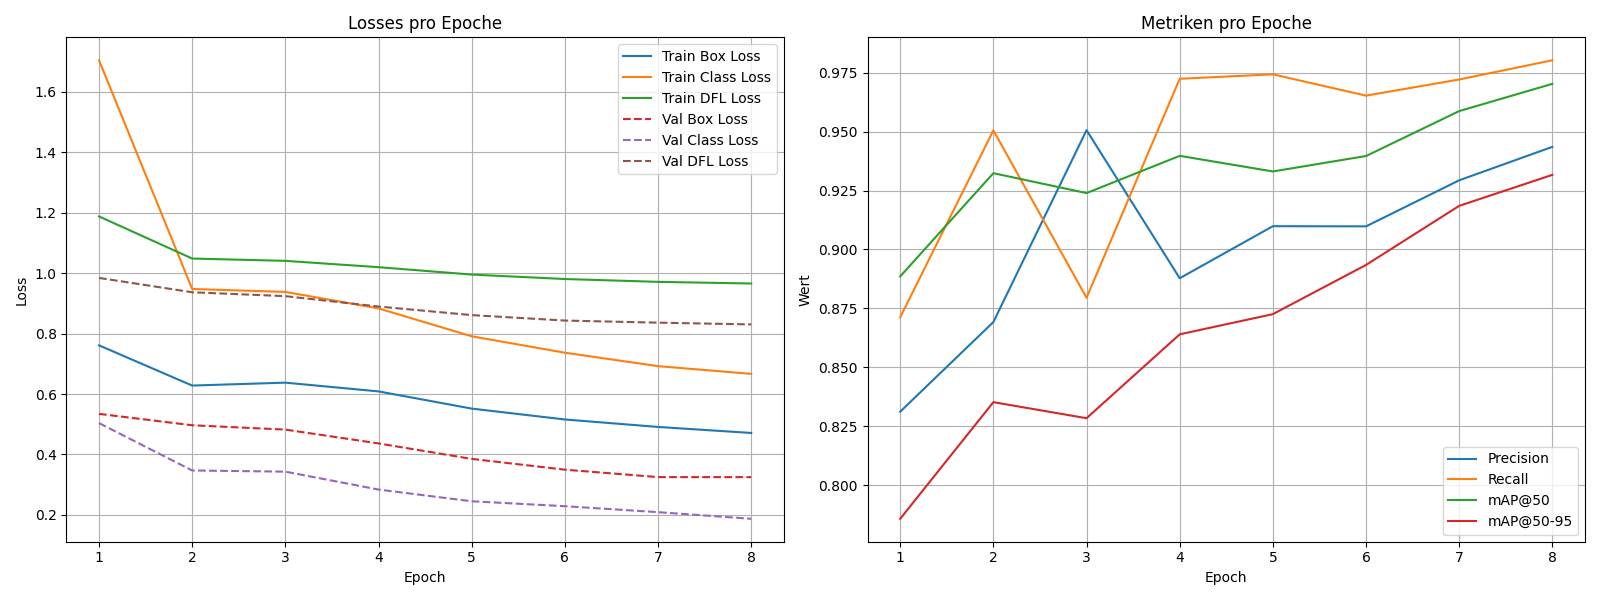
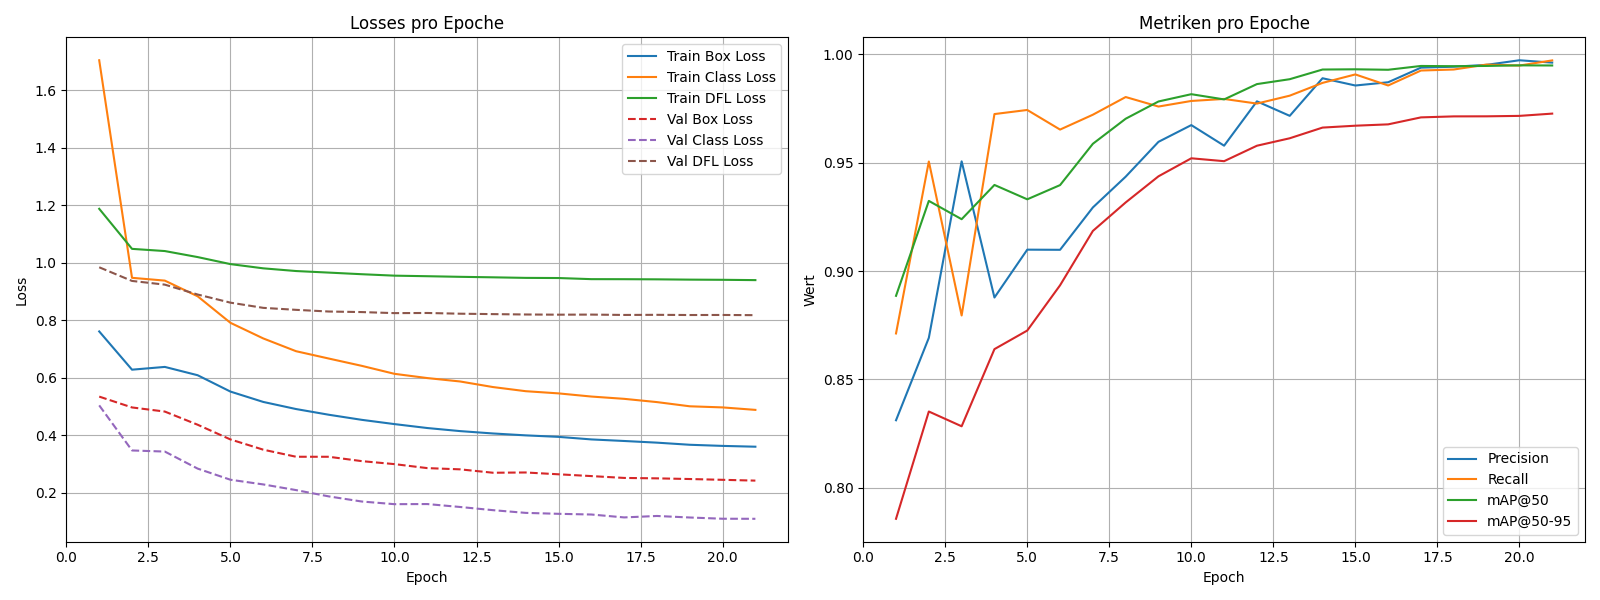
Adjust convert_traindata_to_image.py, so it choses the right csv created while training

diff --git a/scripts/train_model/convert_traindata_to_image.py b/scripts/train_model/convert_traindata_to_image.py
@@ -1,8 +1,13 @@
 import pandas as pd
 import matplotlib.pyplot as plt
+import os
+
+script_dir = os.path.dirname(os.path.abspath(__file__))
+relative_csv_path = os.path.join(script_dir, "..", "..", "runs", "detect", "train", "results.csv")
+csv_path = os.path.abspath(relative_csv_path)
 
 # CSV einlesen
-df = pd.read_csv("results.csv")
+df = pd.read_csv(csv_path)
 epochs = df["epoch"]
 
 #Bild mit zwei nebeneinander liegenden Subplots
